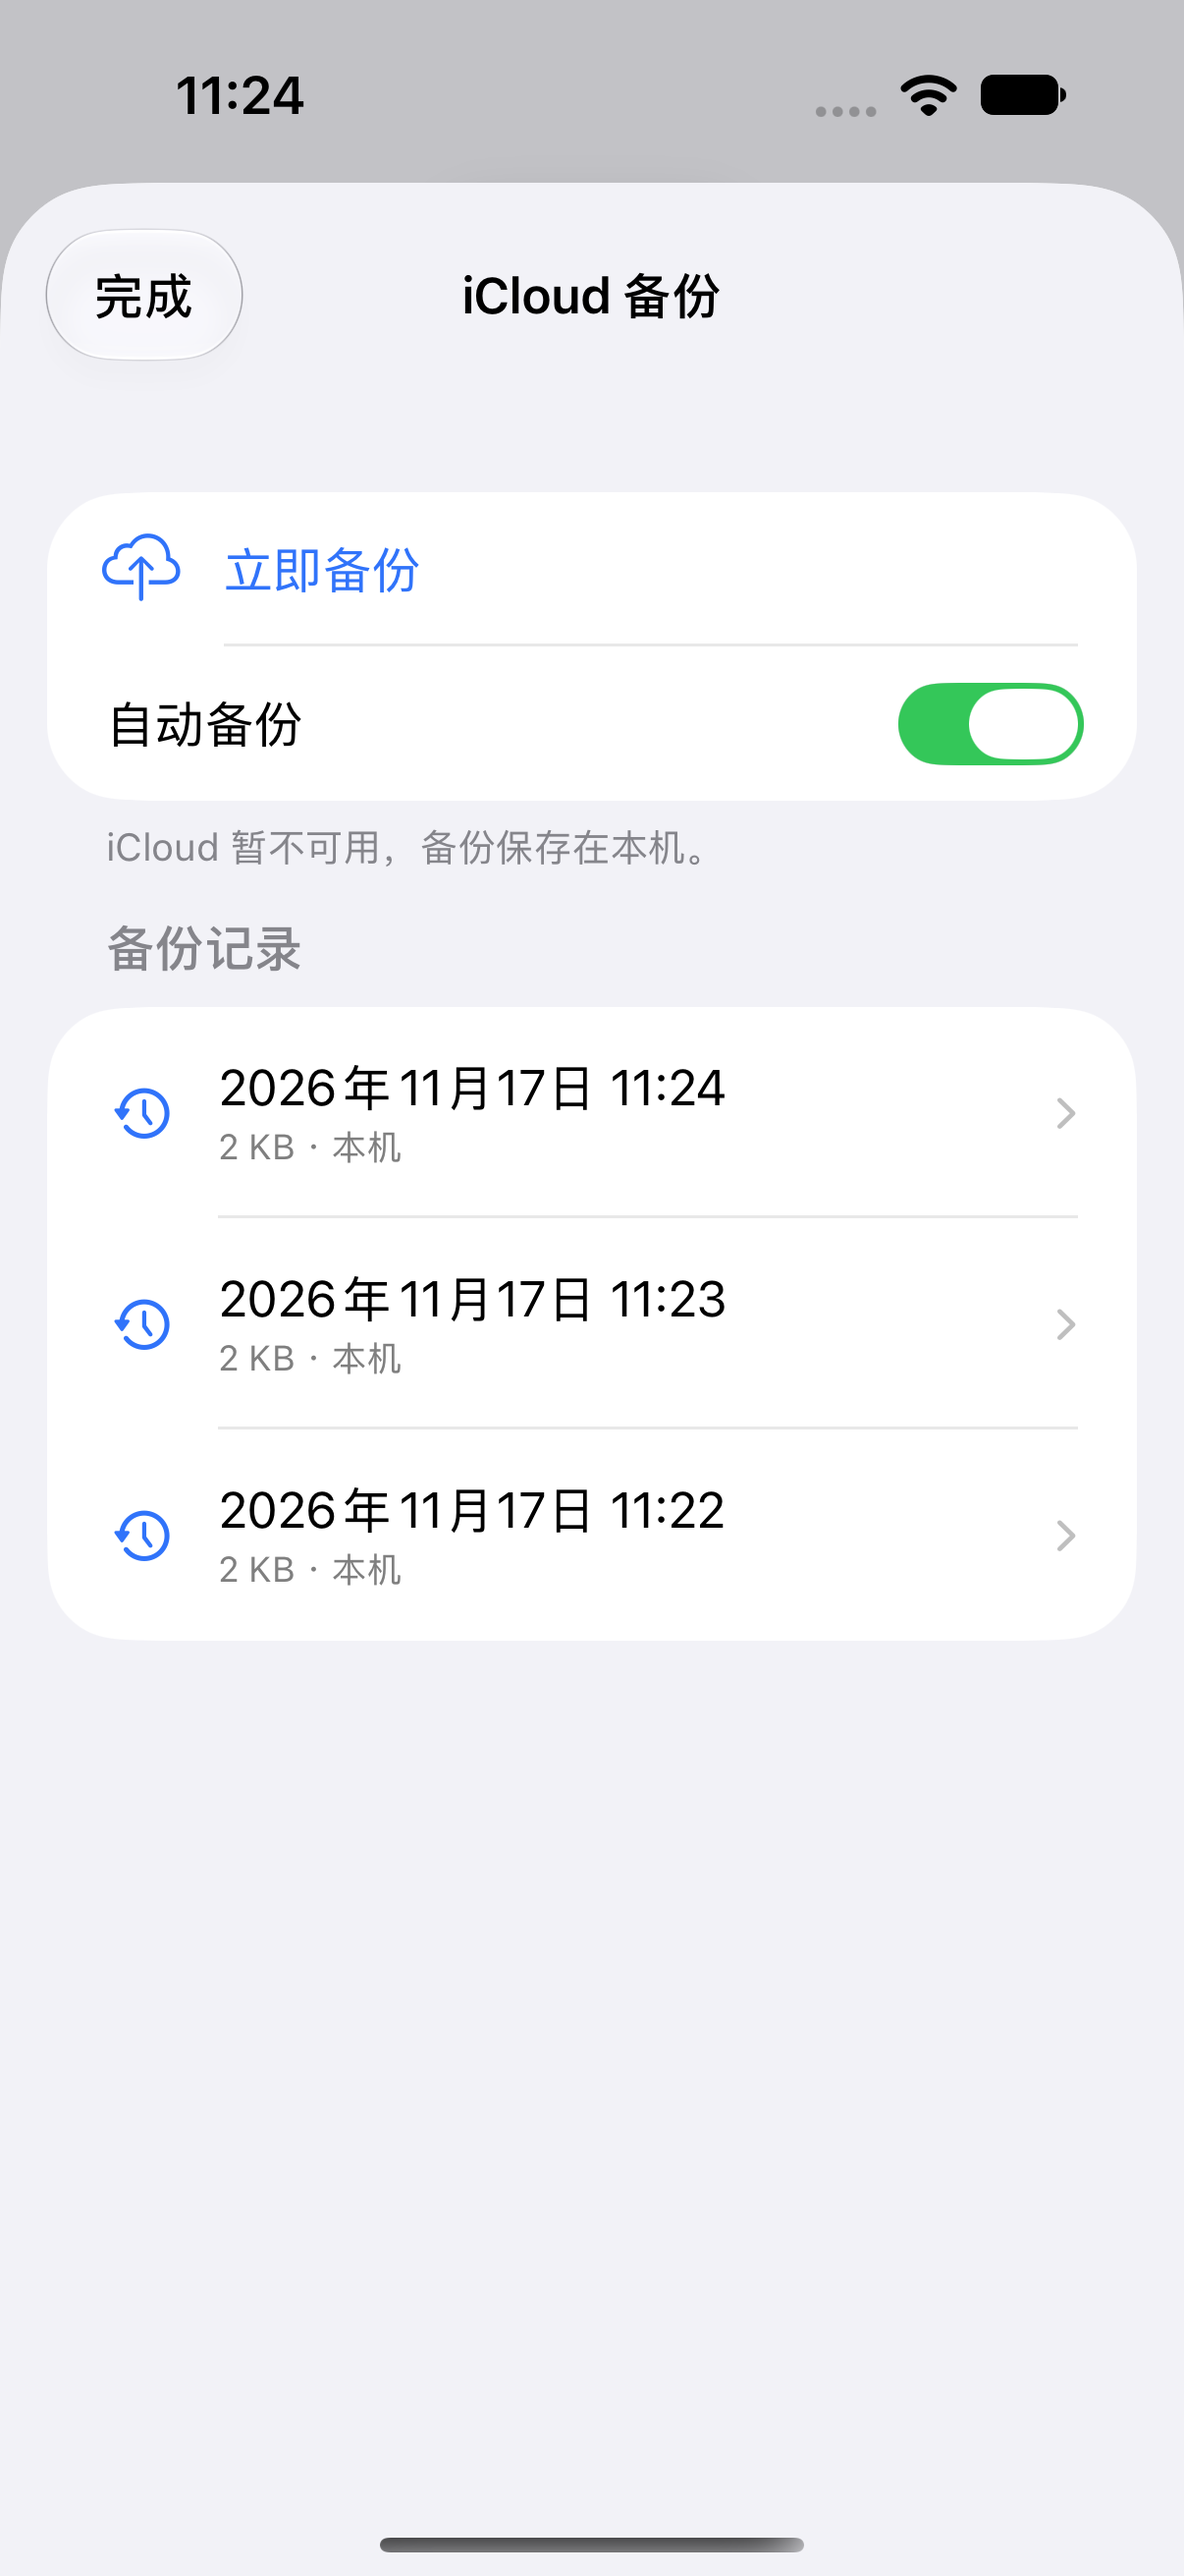
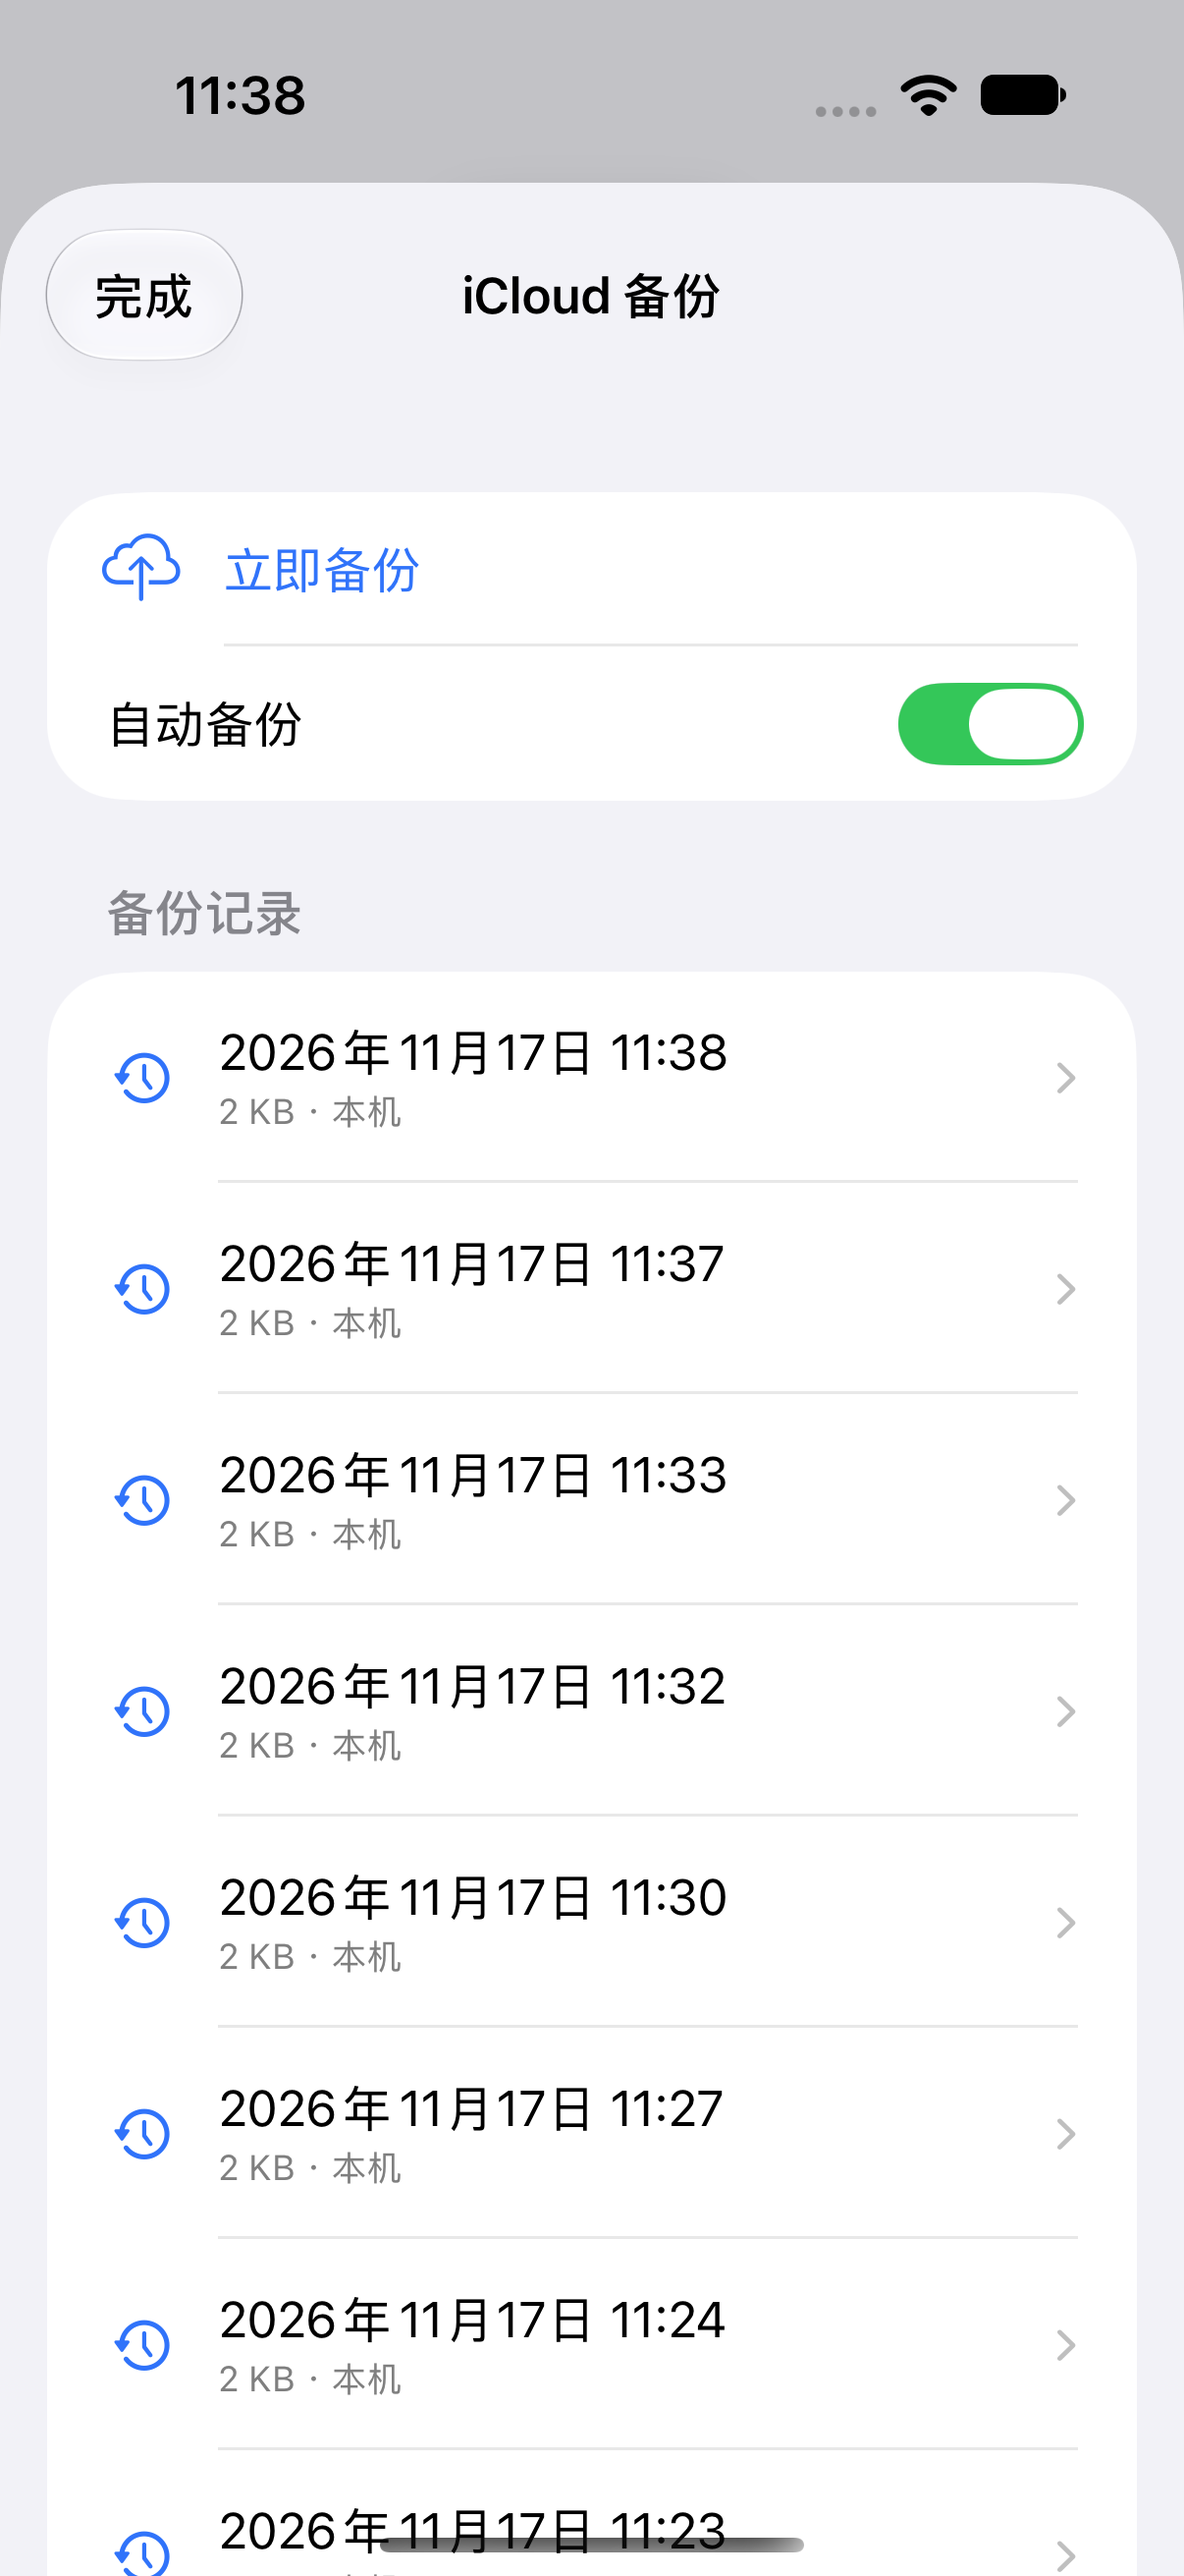
Remove iCloud Drive tip from backup page

diff --git a/OTP/Features/Settings/BackupCenterView.swift b/OTP/Features/Settings/BackupCenterView.swift
@@ -35,10 +35,6 @@ struct BackupCenterView: View {
                     .accessibilityIdentifier("backup.now")
 
                     Toggle("自动备份", isOn: $autoBackupEnabled)
-                } footer: {
-                    Text(usingICloud
-                         ? "备份保存在 iCloud Drive 的 OTP/Backups 文件夹，最多保留 10 份。"
-                         : "iCloud 暂不可用，备份保存在本机。")
                 }
 
                 Section("备份记录") {
